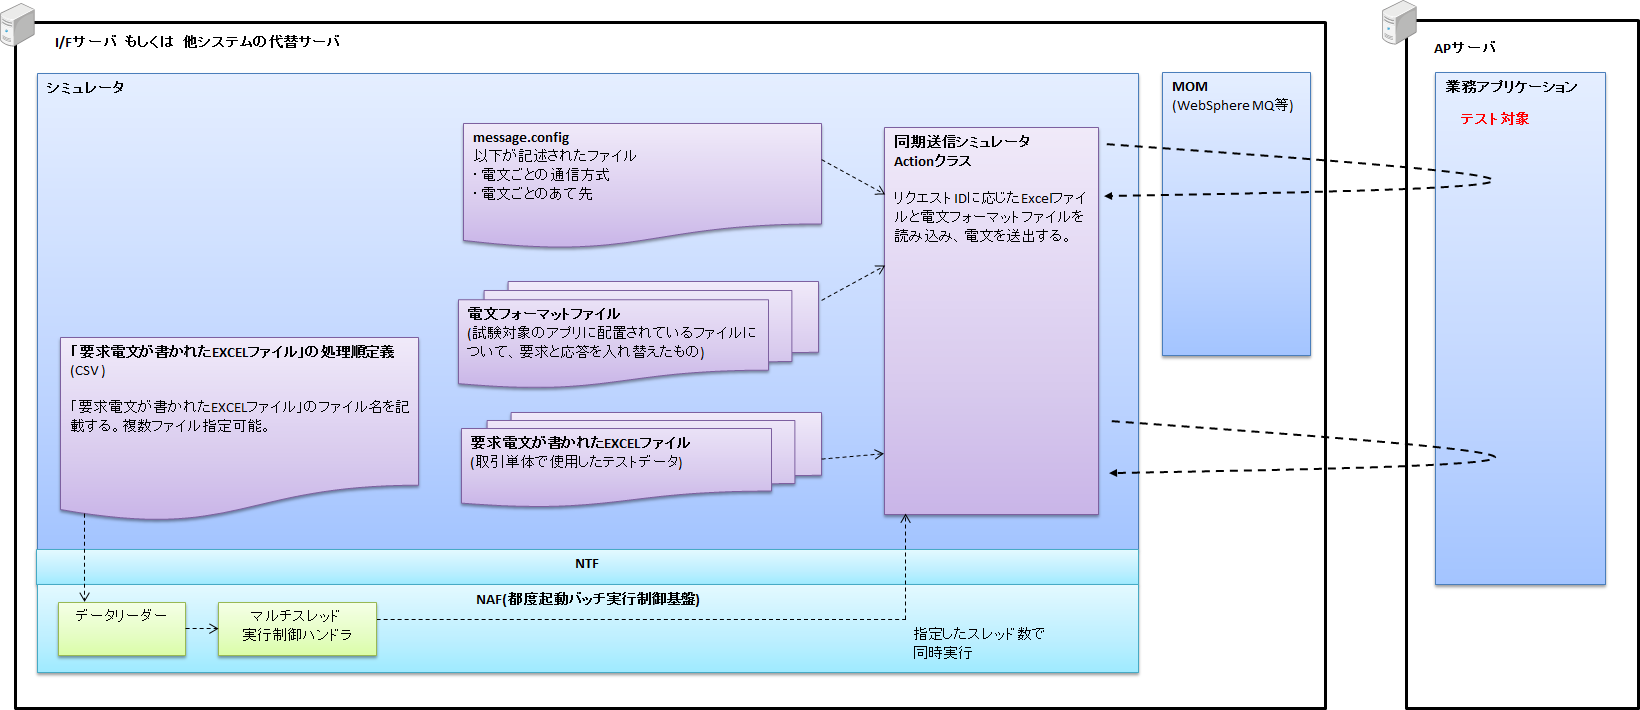
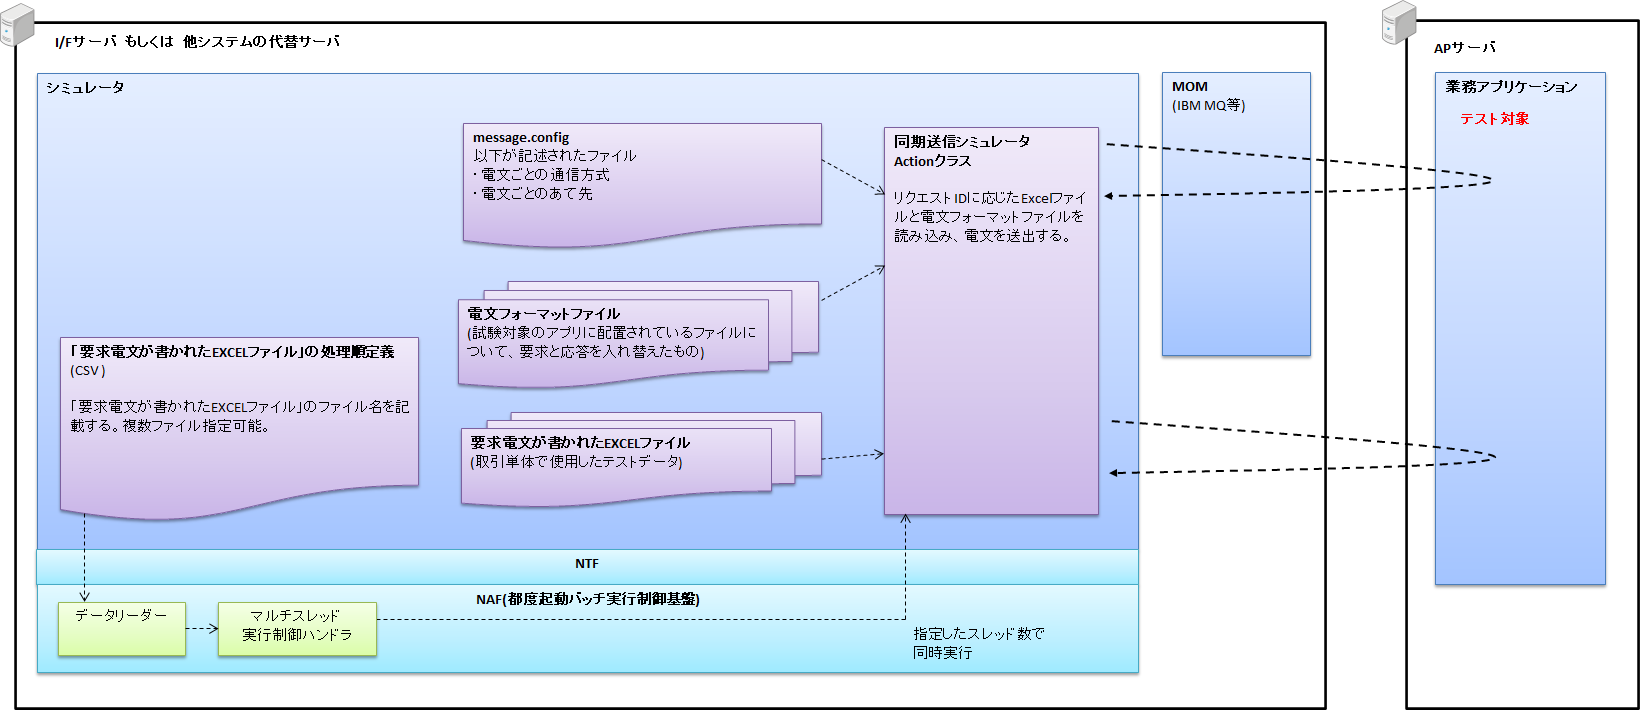
メッセージング基盤テストシミュレータの実行モジュールの作成手順修正 (#541)
* メッセージング基盤テストシミュレータの実行モジュールの作成手順修正(#555)

* 画像内の文言修正（WebSphere MQ→IBM MQ）(#555)

* メッセージング基盤テストシミュレータサンプルのJavaバージョンについての記載を追加(#555)

* IBM MQの利用バージョンを追加(#555)

* IBM MQの利用バージョンを追加(#555)

Changed region(s): [[0.8707, 0.031, 1.0, 1.0], [0.0, 0.9915, 0.8085, 1.0], [0.7152, 0.1239, 0.7774, 0.1549]]

diff --git a/ja/examples/11/index.rst b/ja/examples/11/index.rst
@@ -24,6 +24,11 @@
   .. image:: ./_images/behavior_illustration02.png
     :scale: 70
 
+.. important::
+
+  本サンプルではMOMとしてIBM MQ 9.3 を使用している。
+  IBM MQ 9.3 はJavaのバージョン 8 以上がサポート対象であるため、本サンプルでは Java 8を使用する。
+
 用途
 ----------
 
@@ -109,16 +114,12 @@ Nablarchアプリケーションフレームワークのマルチスレッド実
 
     git clone https://github.com/nablarch/nablarch-messaging-simulator.git
 
-  なお、シミュレータを実行するには、以下のライブラリがローカルリポジトリにインストールされている必要がある。
-
-    * WebSphere MQ付属のjarファイル
-
 実行モジュールの作成
-  以下のコマンドを実行し、 ``src/main/build`` 配下に実行モジュールを作成する。
+  以下のコマンドを実行し、 ``target/build`` 配下に実行モジュールを作成する。
 
   .. code-block:: bat
 
-    gradlew setupBuild
+    mvn clean dependency:copy-dependencies -DoutputDirectory=target/build/lib package
 
   作成した実行モジュールは、シミュレータを実行する環境に配置する。
 
